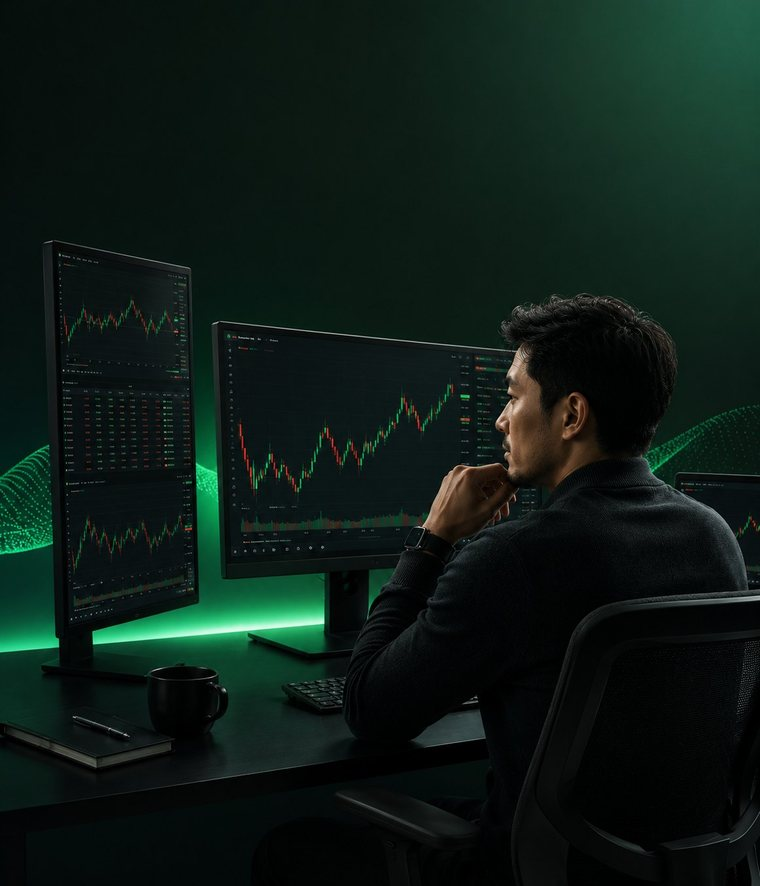
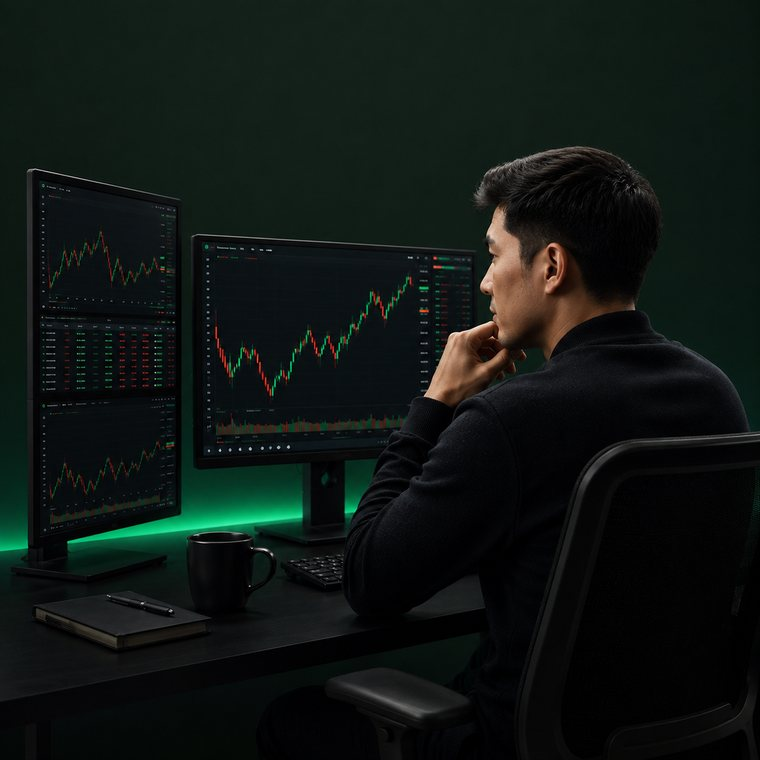
new hero image, cleanup unused files

diff --git a/index.html b/index.html
@@ -14,7 +14,7 @@
 <link rel="preconnect" href="https://fonts.gstatic.com" crossorigin>
 <link href="https://fonts.googleapis.com/css2?family=Inter:wght@400;600;700;800&display=swap" rel="stylesheet">
 <link rel="stylesheet" href="https://cdn.jsdelivr.net/npm/intl-tel-input@18.5.3/build/css/intlTelInput.min.css">
-<link rel="stylesheet" href="styles.css?v=74">
+<link rel="stylesheet" href="styles.css?v=75">
 </head>
 <body>
 
@@ -101,7 +101,7 @@
 
     <picture class="hero__pic">
       <source type="image/webp" sizes="(min-width:900px) 46vw, 100vw" srcset="img/hero-sm.webp 760w, img/hero.webp 1200w">
-      <img sizes="(min-width:900px) 46vw, 100vw" srcset="img/hero-sm.jpg 760w, img/hero.jpg 1200w" src="img/hero.jpg" width="1162" height="1354" alt="Трейдер за рабочим местом анализирует графики на нескольких мониторах" fetchpriority="high" decoding="async">
+      <img sizes="(min-width:900px) 46vw, 100vw" srcset="img/hero-sm.jpg 760w, img/hero.jpg 1200w" src="img/hero.jpg" width="1200" height="1200" alt="Трейдер за рабочим местом анализирует графики на нескольких мониторах" fetchpriority="high" decoding="async">
     </picture>
   </div>
 
@@ -807,6 +807,6 @@
 </footer>
 
 <script src="https://cdn.jsdelivr.net/npm/intl-tel-input@18.5.3/build/js/intlTelInput.min.js"></script>
-<script src="script.js?v=74"></script>
+<script src="script.js?v=75"></script>
 </body>
 </html>
